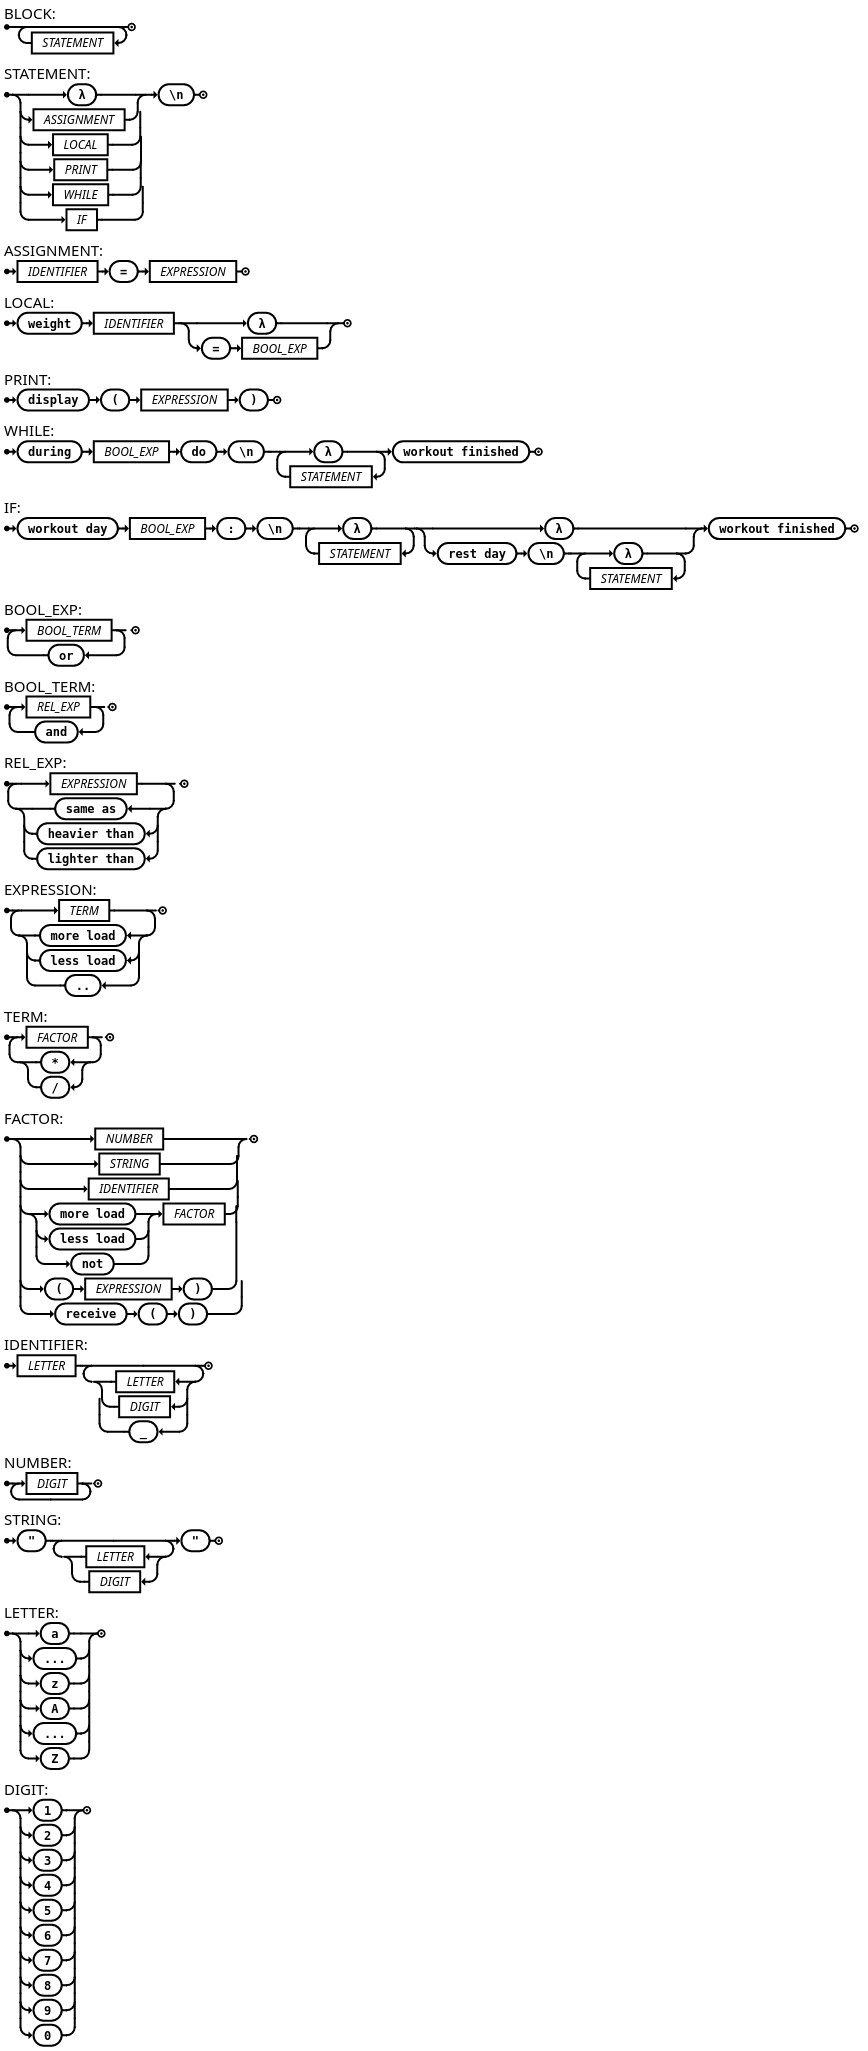
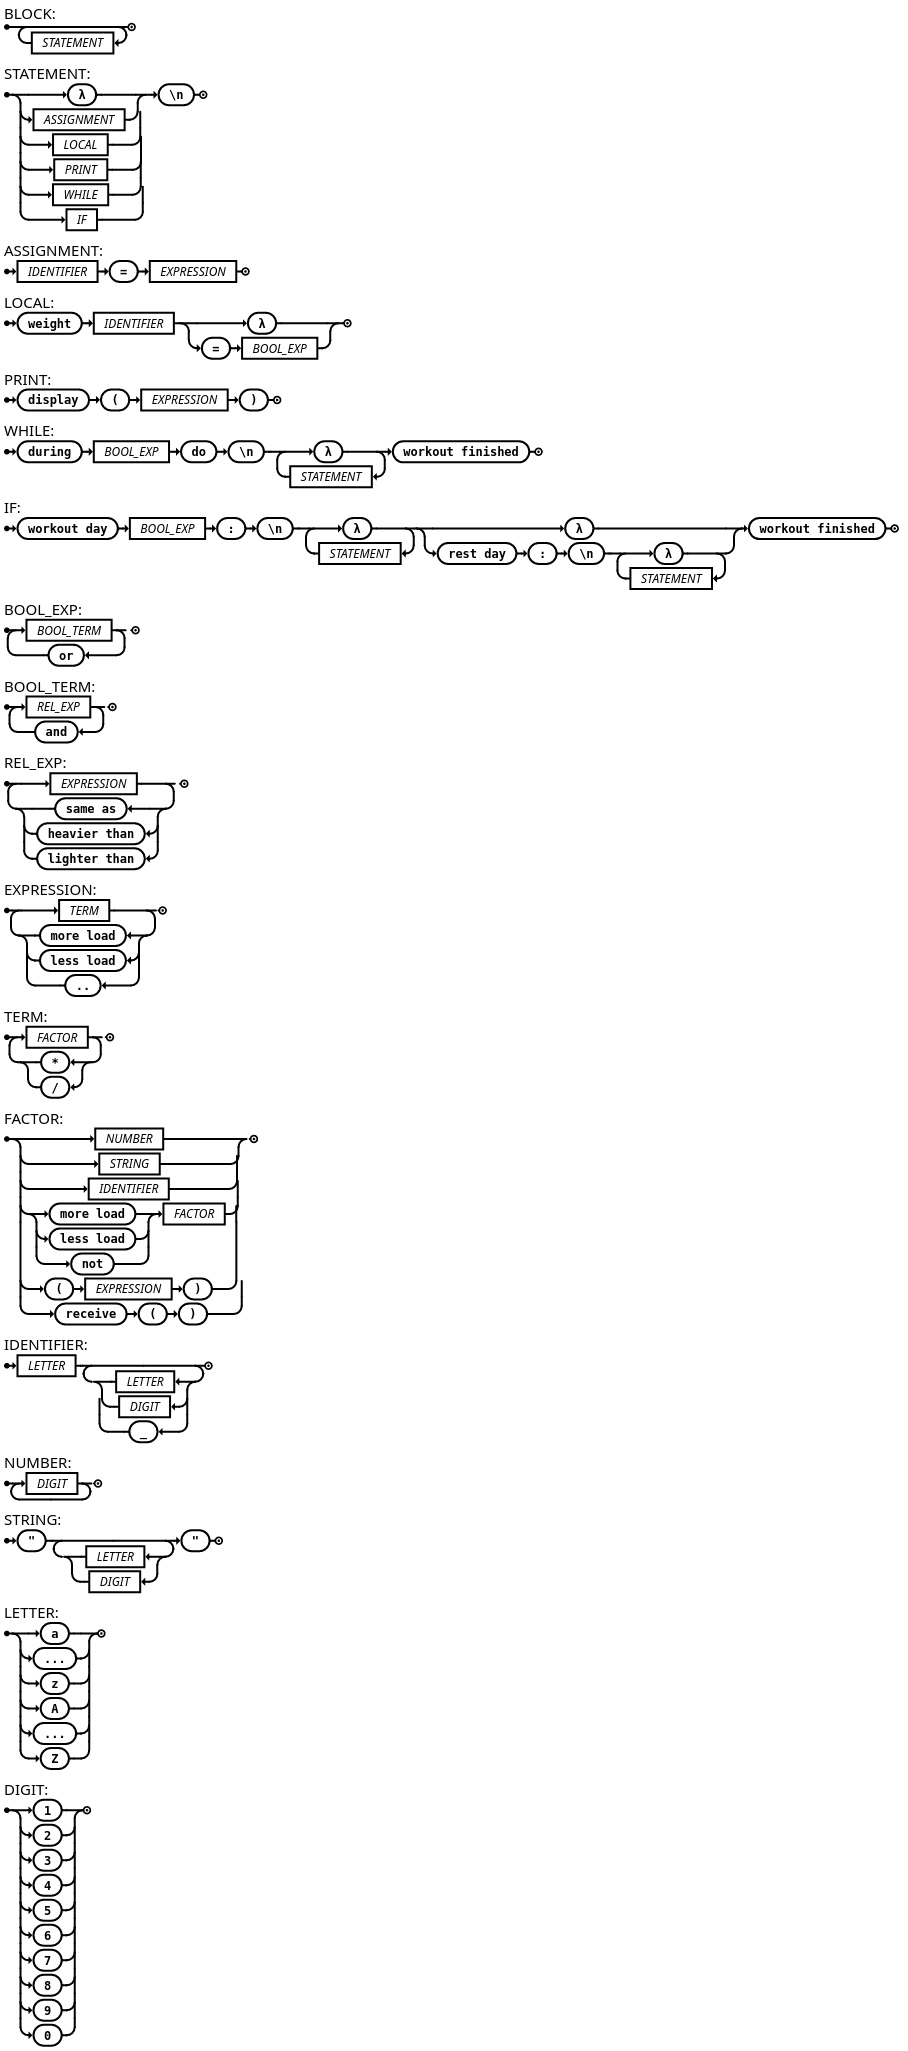
update

diff --git a/README.md b/README.md
@@ -40,7 +40,7 @@ ASSIGNMENT = IDENTIFIER, "=", EXPRESSION ;
 LOCAL = "weight", IDENTIFIER, ("λ" | ("=", BOOL_EXP));
 PRINT = "display", "(", EXPRESSION, ")" ;
 WHILE = "during", BOOL_EXP, "do", "\n", "λ", { ( STATEMENT ), "λ" }, "workout finished";
-IF = "workout day", BOOL_EXP, ":", "\n", "λ", { ( STATEMENT ), "λ" }, ( "λ" | ( "rest day", "\n", "λ", { ( STATEMENT ), "λ" })), "workout finished" ;
+IF = "workout day", BOOL_EXP, ":", "\n", "λ", { ( STATEMENT ), "λ" }, ( "λ" | ( "rest day", ":", "\n", "λ", { ( STATEMENT ), "λ" })), "workout finished" ;
 BOOL_EXP = BOOL_TERM, { ("or"), BOOL_TERM } ;
 BOOL_TERM = REL_EXP, { ("and"), REL_EXP } ;
 REL_EXP = EXPRESSION, { ("same as" | "heavier than" | "lighter than"), EXPRESSION } ;
